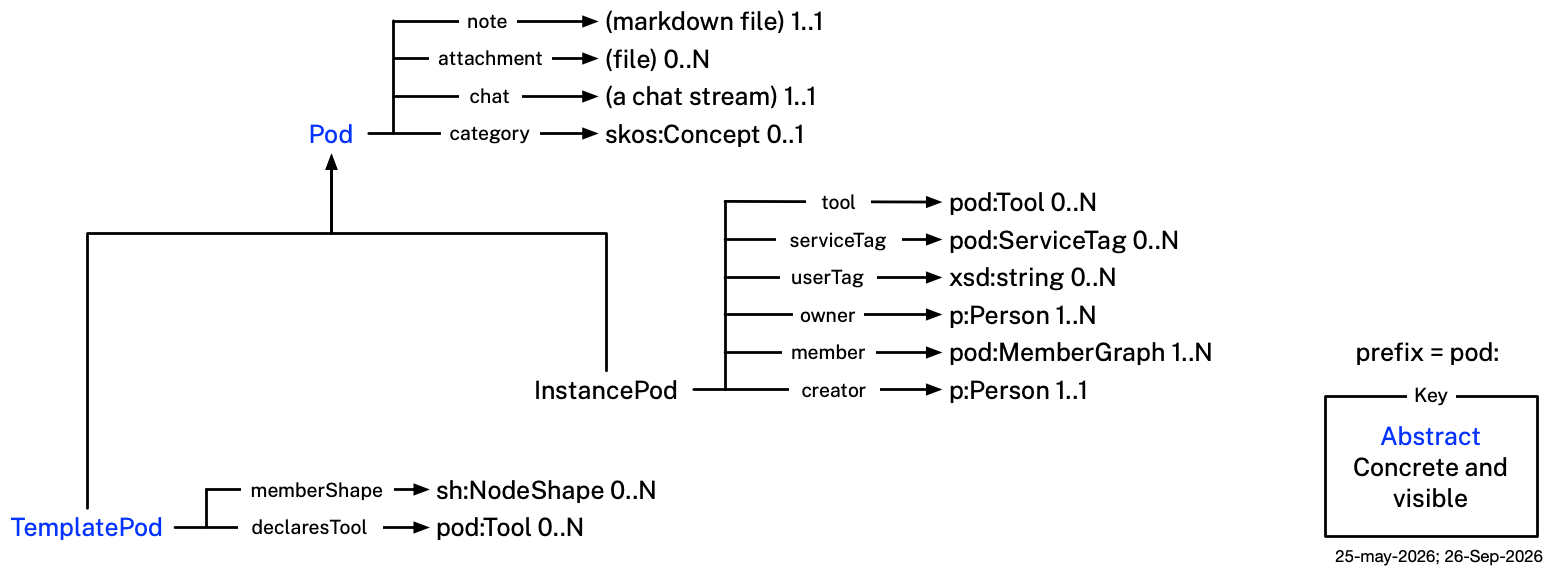
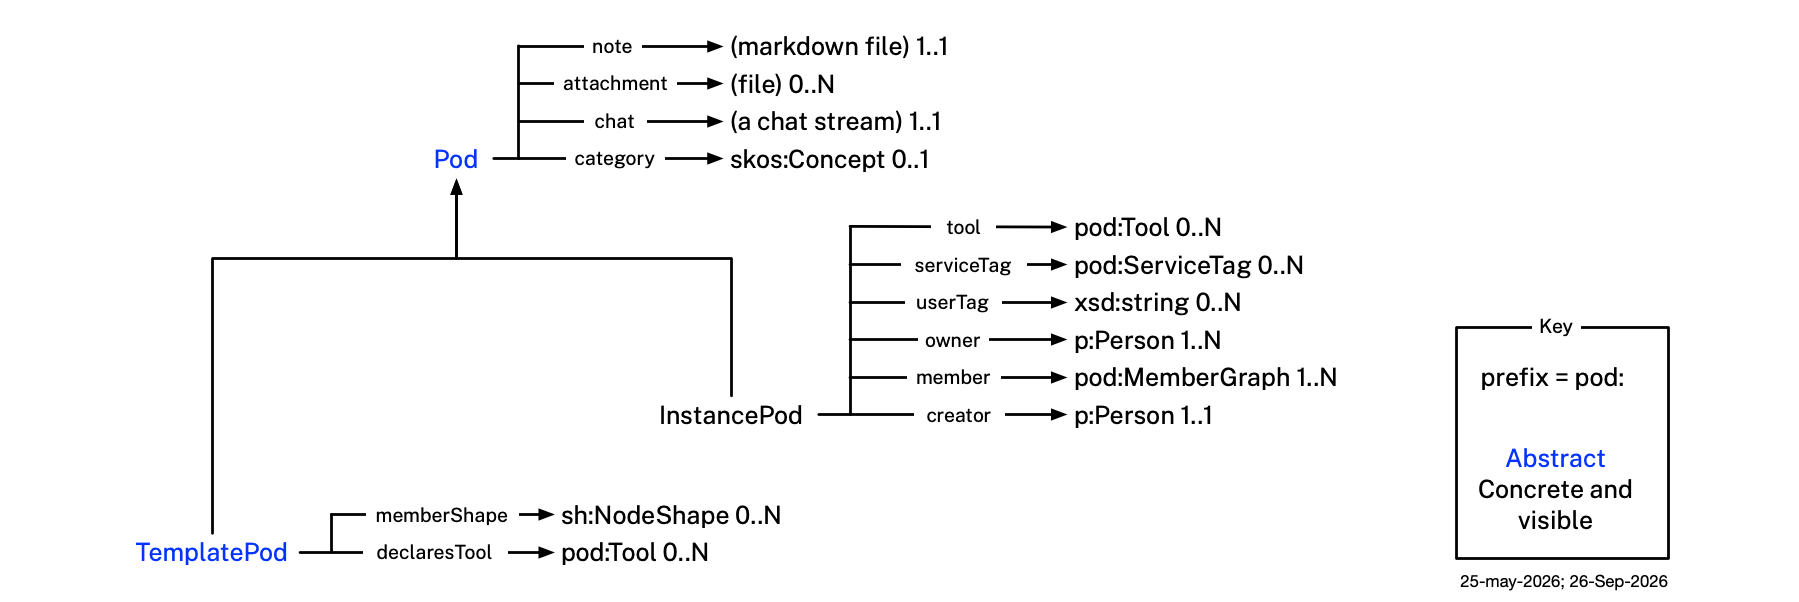
Tidy ontology diagram keys and fix hasTopConcept direction
Every ontology diagram now carries its prefix label inside its Key box;
service.png gains a Key for it.

pod-categories.png now draws the core scheme's hasTopConcept arrows
scheme -> concept, matching pod-categories.ttl's own triples and the
extension inset, and drops the stray colons from Groups/People.
integrity.md's check 14d is corrected to scheme -> concept to match, and
notes the italic, parenthesized (ExtensionScheme) label.

diff --git a/integrity.md b/integrity.md
@@ -135,7 +135,7 @@ The split into two leaves is the diagram's substantive claim, and it is a PDN-la
 - **14b** — every `skos:` property actually asserted in `pod-categories.ttl` (`hasTopConcept`, `broader`, `inScheme`, `topConceptOf`, `prefLabel`) appears as an arrow or label in the diagram, under the box matching its domain (catches a new relationship added to the ttl but never drawn). `pod-categories.ttl` defines no `podcat:` property of its own any more.
 - **14c** — the concept structure shown in the diagram — `PodCategoryScheme` → `hasTopConcept` → `Person`/`Organization` → `broader`-linked narrower concepts — matches `pod-categories.ttl`'s actual `skos:hasTopConcept`/`skos:broader` triples (by concept local name, not just position), the 14d inset excepted. There is no class hierarchy to check any more — `pod-categories.ttl` defines no `owl:Class` other than the ontology header's implicit `owl:Ontology` typing, and no `Folder` hierarchy at all.
 
-- **14d — the category-extension inset** — the diagram carries exactly one illustration of the [category extension](README.md#category-extensions) mechanism, and it is the only content here that does not come from `pod-categories.ttl`. It is **two boxes and two arrows**: an `ExtensionScheme` box (a `skos:ConceptScheme`) and an `ExtensionConcept` box (a `skos:Concept`), joined by a green `hasTopConcept` arrow concept → scheme, plus a **dashed purple `broadMatch` arrow** from `ExtensionConcept` to one core concept (`Groups`). The dashed line is load-bearing: solid means hierarchy within one scheme, dashed means a mapping between schemes, which is the whole SKOS distinction the mechanism rests on (see TTL-8). The labels must stay **generic placeholders** — never a real publisher's concept such as `bhscat:BostonHubSociety` — since this diagram is embedded in `README.md`, which carries theory only; the worked extension belongs in `example.md`. The two boxes follow the Key's own color rule exactly as the core tree does: `ExtensionScheme` is **blue** (Abstract — a `skos:ConceptScheme` is never shown to a user, which is why `PodCategoryScheme` is blue too), and `ExtensionConcept` is **black** (Visible to user — it is the category a pod is actually filed under, the peer of `Groups`, which the `broadMatch` arrow points at). Getting these the same color as each other is the easy mistake: it makes a scheme and a concept read as one kind of thing. The Key carries a matching third arrow row, `broadMatch`, alongside `hasTopConcept` and `broader concept`. No other extension box, arrow, or scheme may appear: one inset is an illustration, several would be a second taxonomy.
+- **14d — the category-extension inset** — the diagram carries exactly one illustration of the [category extension](README.md#category-extensions) mechanism, and it is the only content here that does not come from `pod-categories.ttl`. It is **two boxes and two arrows**: an `ExtensionScheme` box (a `skos:ConceptScheme`, its label drawn italic and in parentheses as *(ExtensionScheme)* to mark it as a scheme published outside `pod-categories.ttl`, not a second core scheme) and an `ExtensionConcept` box (a `skos:Concept`), joined by a green `hasTopConcept` arrow scheme → concept, plus a **dashed purple `broadMatch` arrow** from `ExtensionConcept` to one core concept (`Groups`). The dashed line is load-bearing: solid means hierarchy within one scheme, dashed means a mapping between schemes, which is the whole SKOS distinction the mechanism rests on (see TTL-8). The labels must stay **generic placeholders** — never a real publisher's concept such as `bhscat:BostonHubSociety` — since this diagram is embedded in `README.md`, which carries theory only; the worked extension belongs in `example.md`. The two boxes follow the Key's own color rule exactly as the core tree does: `ExtensionScheme` is **blue** (Abstract — a `skos:ConceptScheme` is never shown to a user, which is why `PodCategoryScheme` is blue too), and `ExtensionConcept` is **black** (Visible to user — it is the category a pod is actually filed under, the peer of `Groups`, which the `broadMatch` arrow points at). Getting these the same color as each other is the easy mistake: it makes a scheme and a concept read as one kind of thing. The Key carries a matching third arrow row, `broadMatch`, alongside `hasTopConcept` and `broader concept`. No other extension box, arrow, or scheme may appear: one inset is an illustration, several would be a second taxonomy.
 
 **PNG-6 — `pod.ttl`'s `pod:ServiceTag` matches `images/pod-ontology/tag.png`**: The service-tag value node has its own diagram rather than sitting inside `pod.png`, since it takes no part in the `Pod` hierarchy at all. `ServiceTag` (concrete but hidden, green) is drawn as a standalone box carrying three arrows — `tagNamespace`, `tagKey` and `tagValue` — each to an `xsd:string` box at `1..1`:
 
